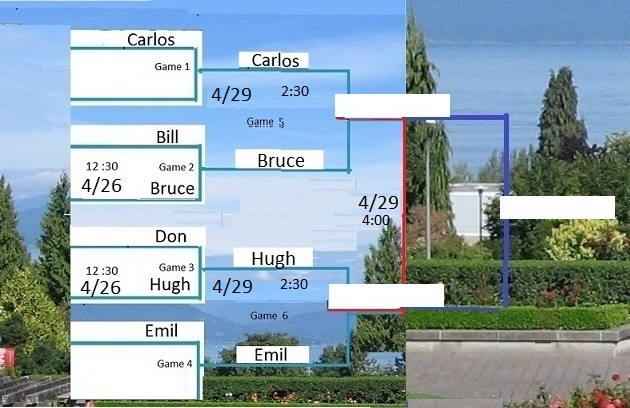
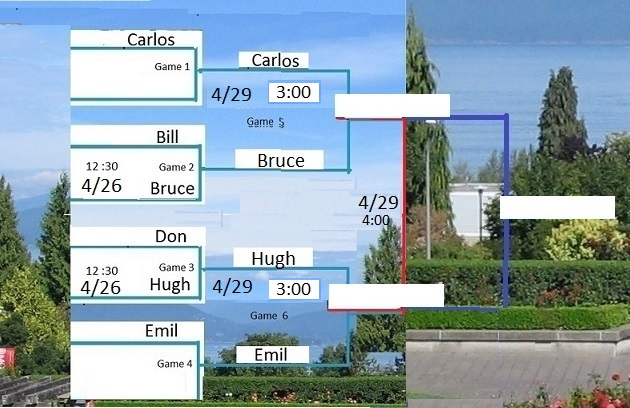
17
17

Changed region(s): [[0.4222, 0.1765, 0.5127, 0.2647], [0.4222, 0.6765, 0.5127, 0.7353]]

diff --git a/racquetball/tourny19/index.html b/racquetball/tourny19/index.html
@@ -49,8 +49,8 @@
 <tr>
             <td>4/28 3:00 weekly game
 </td>
- <td bgColor="#99ffff">4/29 2:30 Singles </td>
-<td bgColor="#99ffff">4/30 12:30 Doubles
+ <td bgColor="#99ffff">4/29 2:30 & 4:00 Singles </td>
+<td bgColor="#99ffff">4/30 12:30 & 2:00 Doubles
 </td> 
     
            
